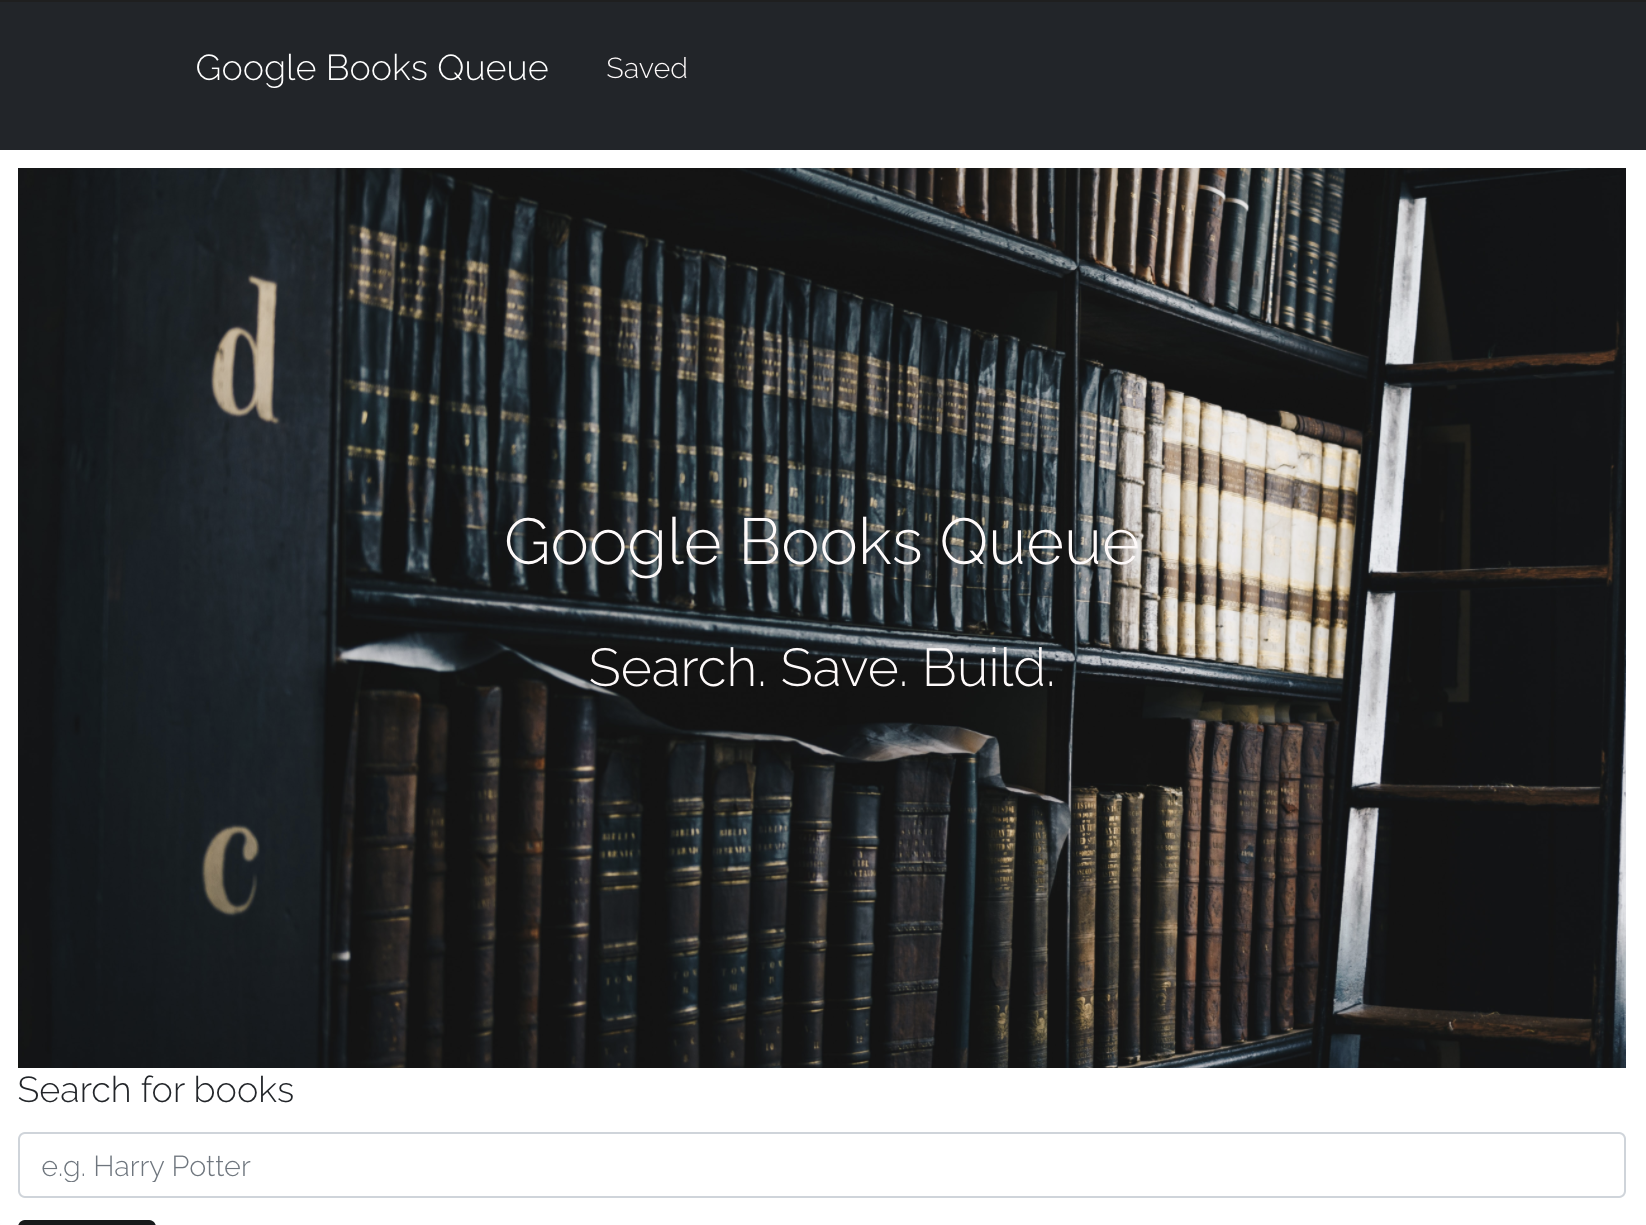
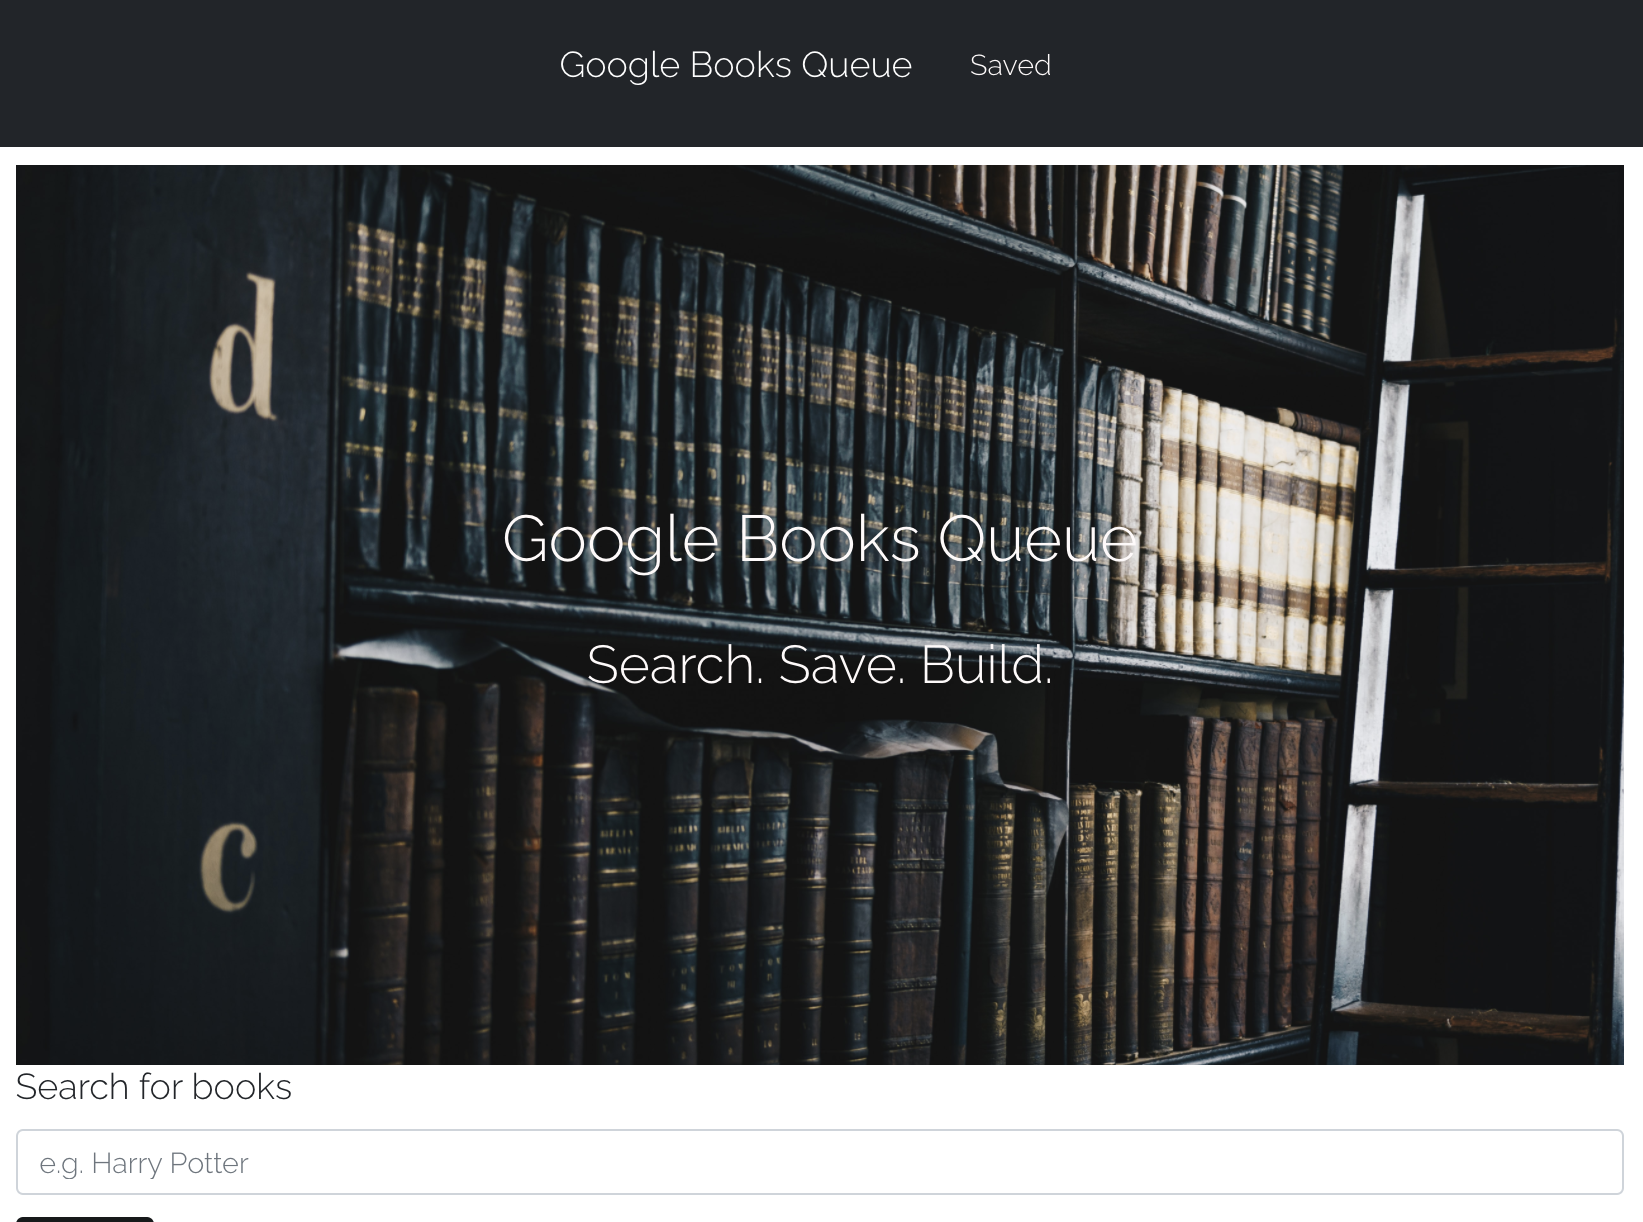
Changes to navbar (centered text and hover effects) and new screenshot in README.

diff --git a/client/src/components/Nav/style.css b/client/src/components/Nav/style.css
@@ -1,7 +1,26 @@
 @import url("https://fonts.googleapis.com/css2?family=Raleway:wght@300&display=swap");
 
+div.container {
+    display: flex;
+    flex-direction: row;
+    justify-content: space-around;
+    flex-flow: column;
+}
+
+div.row {
+    display: flex;
+    flex-direction: row;
+    justify-content: space-around;
+    flex-flow: wrap;
+}
+
+nav.navbar {
+    position: sticky;
+    top: 0px;
+    z-index: 1;
+}
+
 .navbar {
-    /* background-color: #2196f3; */
     margin-bottom: 10px;
     font-family: 'Raleway';
     color: snow;
@@ -13,4 +32,12 @@ a.navbar-brand {
 
 a.nav-link {
     color: snow;
+}
+
+.navbar-brand:hover {
+    transform: scale(1.025);
+}
+
+.nav-link:hover {
+    transform: scale(1.025);
 }
